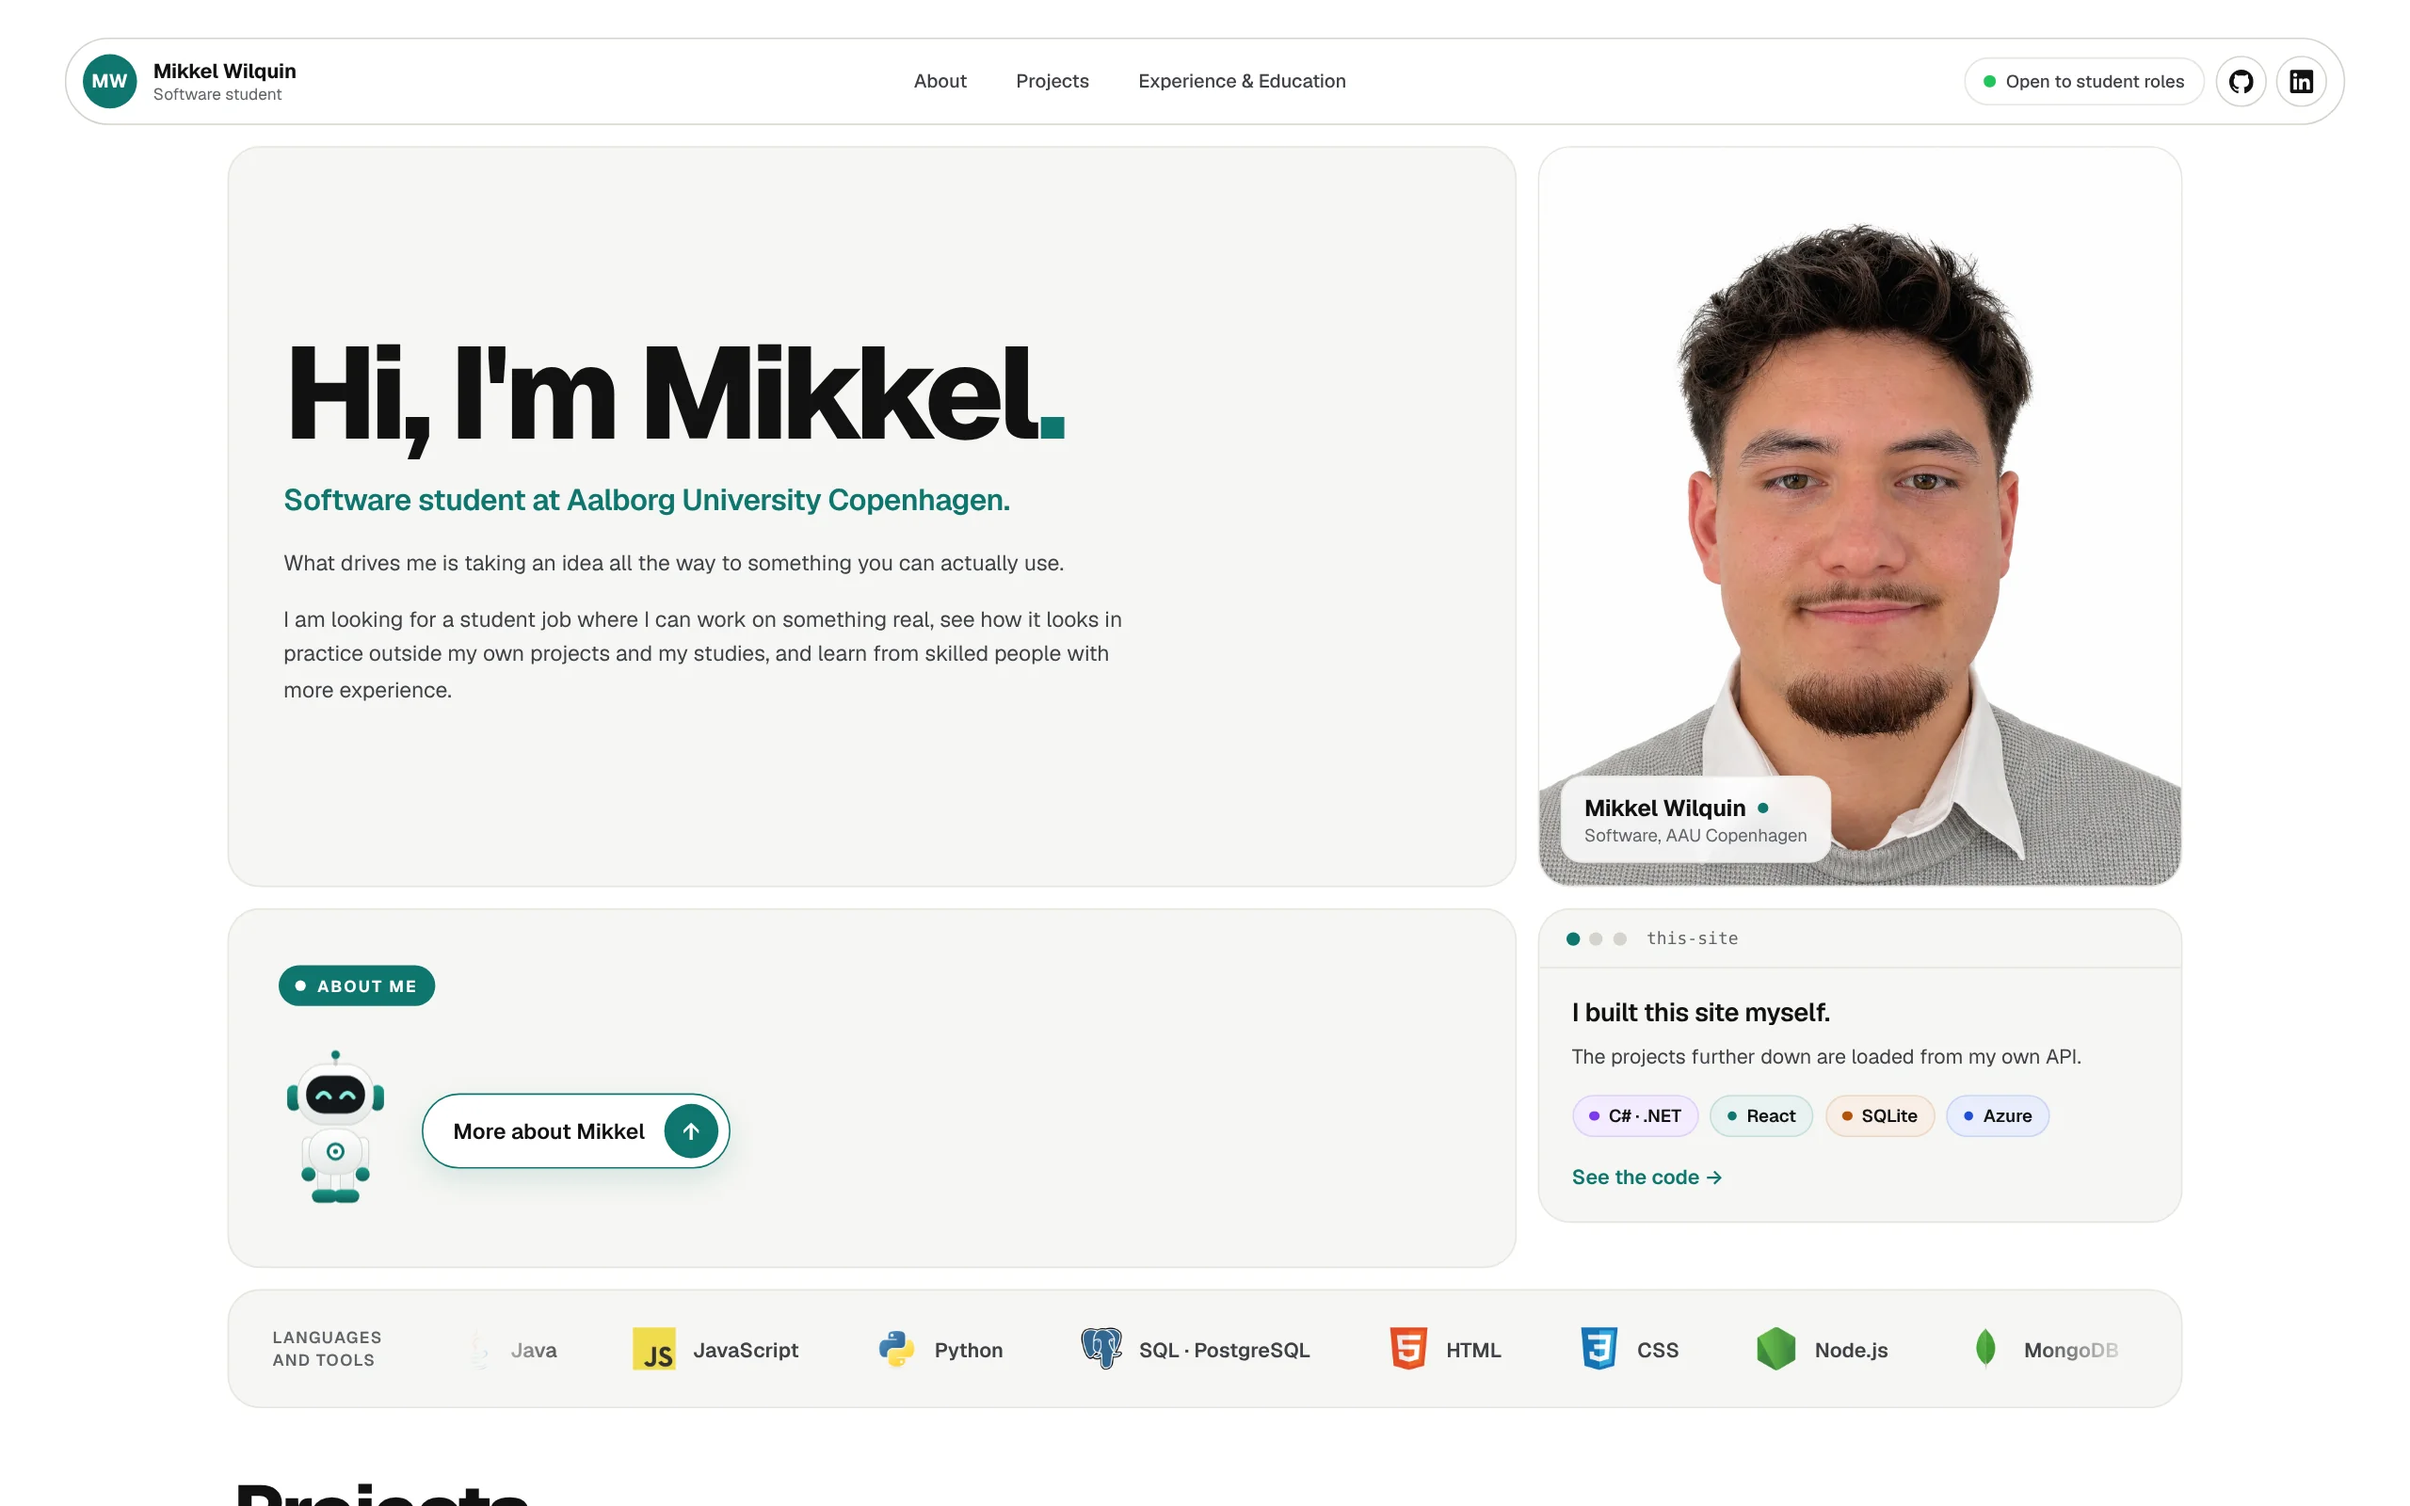
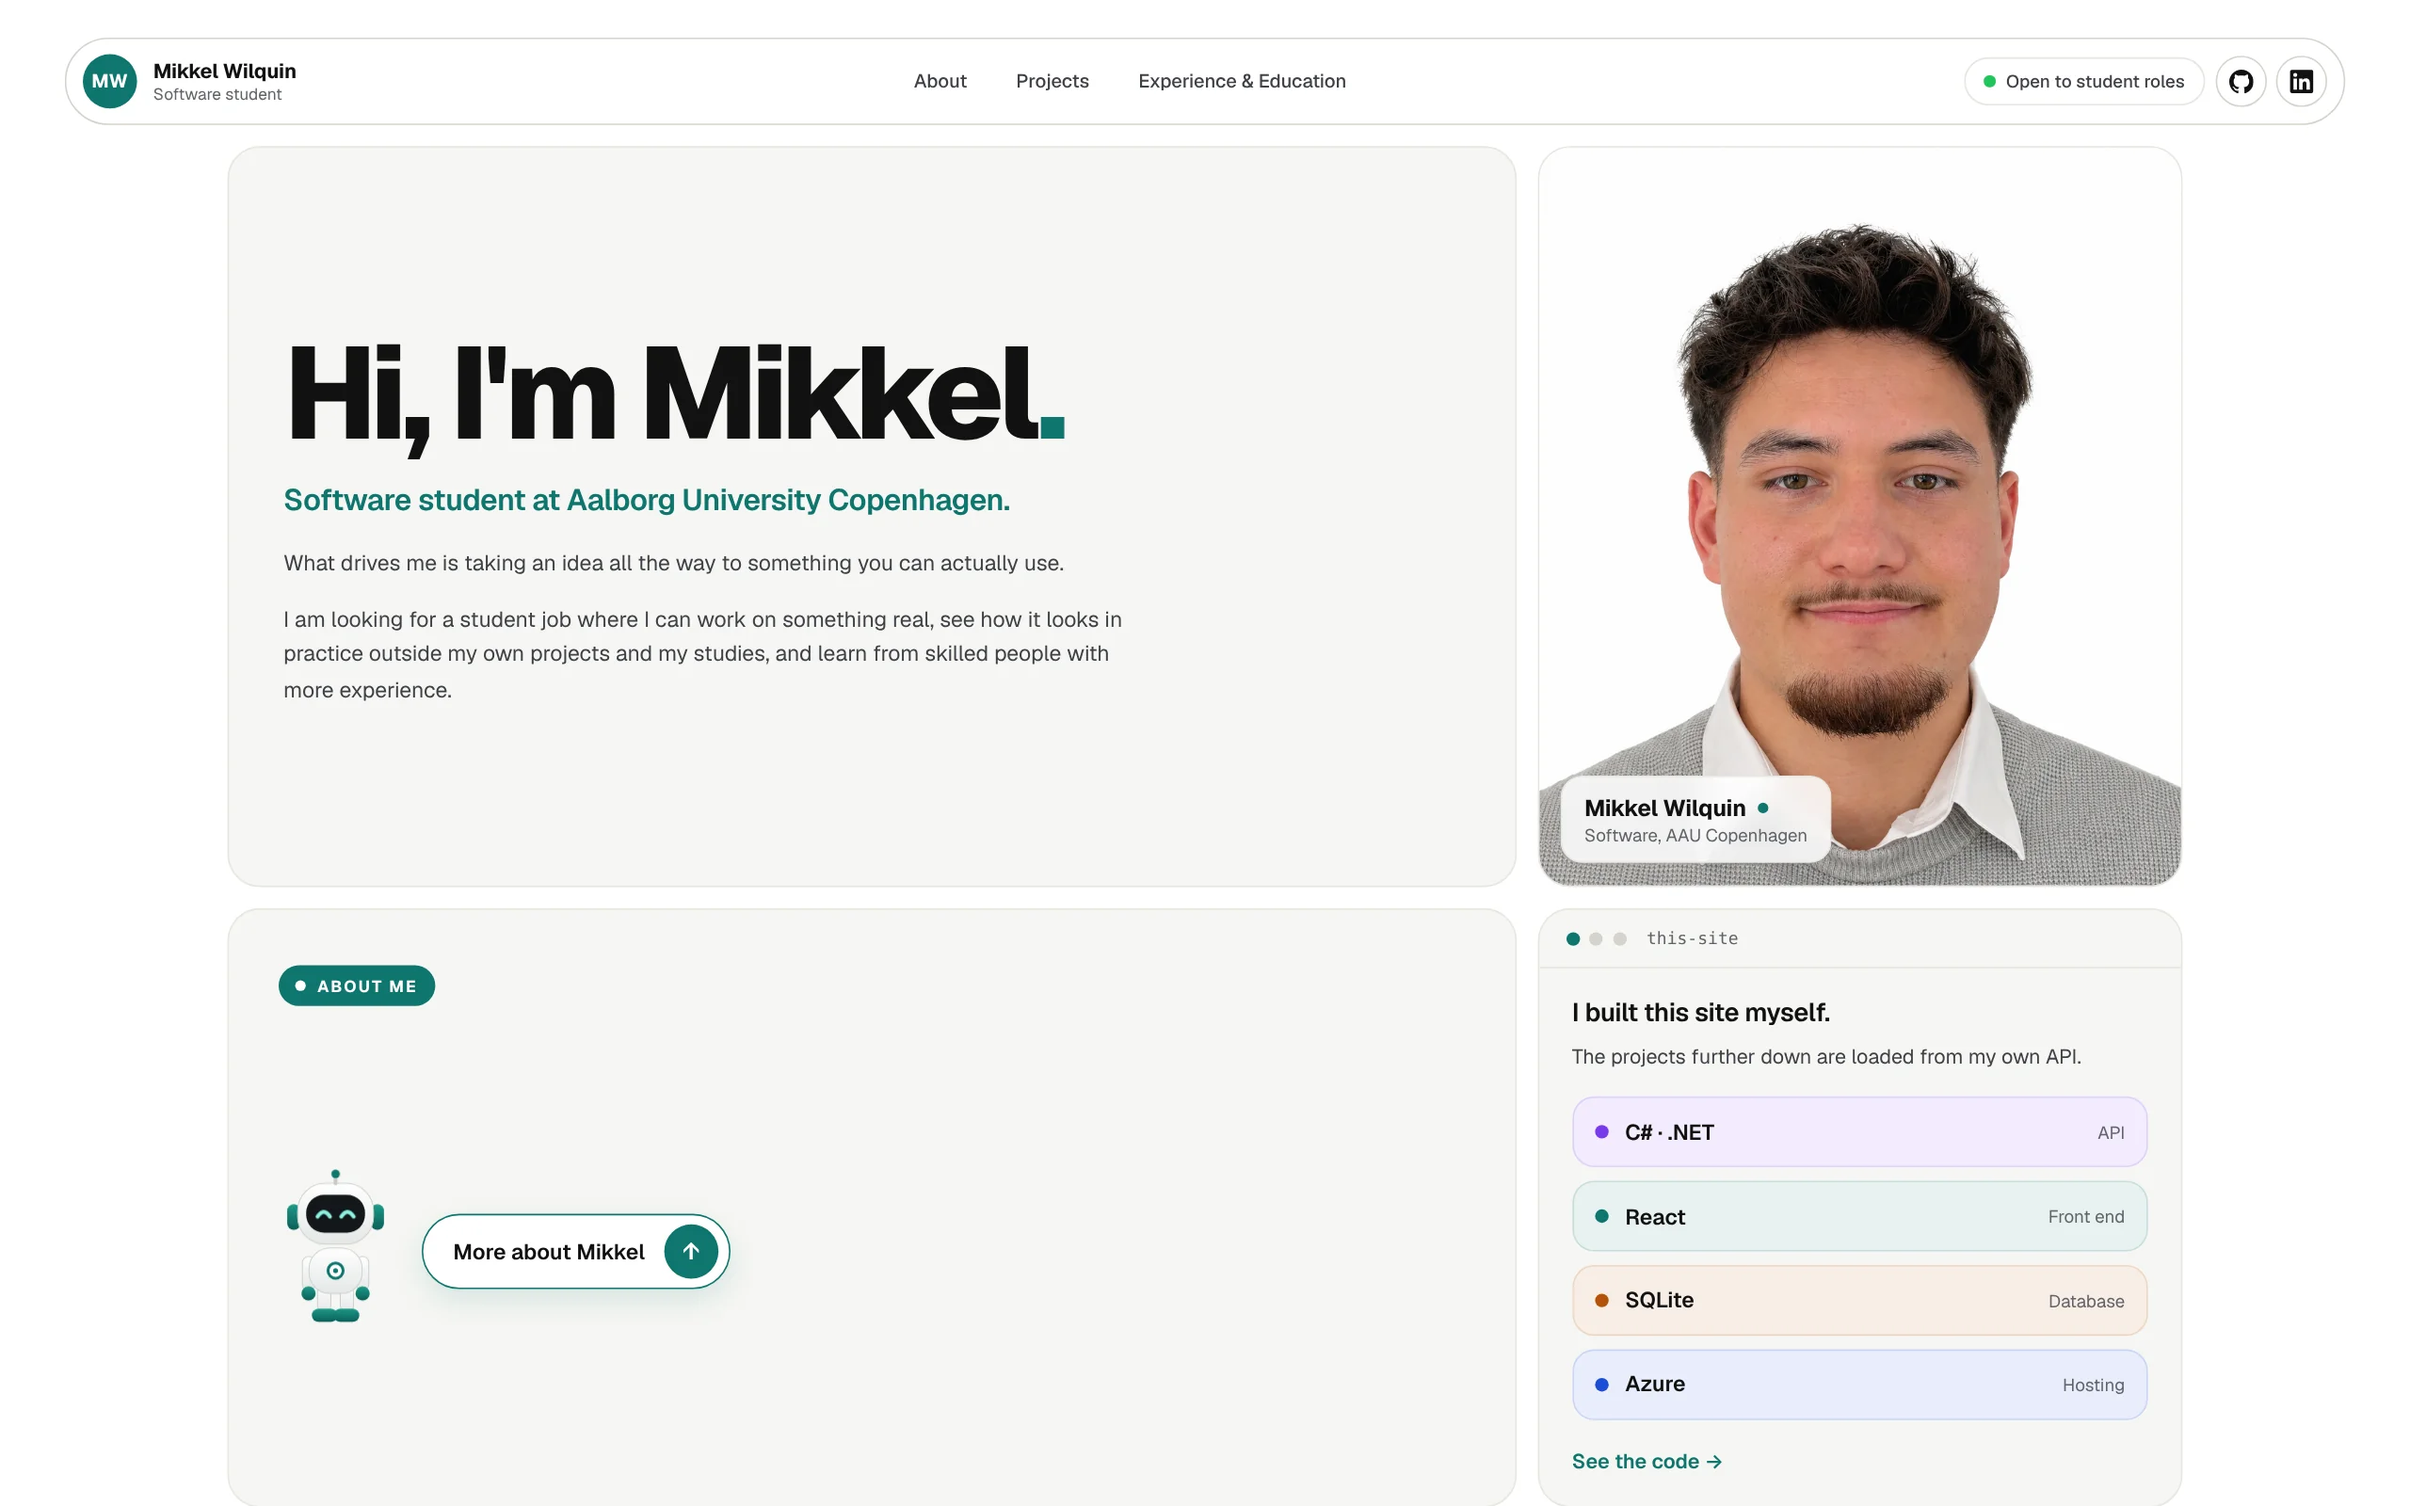
Taller site card with the stack as larger rows

diff --git a/portfolio-web/src/components/BuiltWith.jsx b/portfolio-web/src/components/BuiltWith.jsx
@@ -1,10 +1,10 @@
 import './BuiltWith.css'
 
 const STACK = [
-    { name: 'C# · .NET', color: '#7C3AED' },
-    { name: 'React', color: '#0F766E' },
-    { name: 'SQLite', color: '#B45309' },
-    { name: 'Azure', color: '#1D4ED8' },
+    { name: 'C# · .NET', role: 'API', color: '#7C3AED' },
+    { name: 'React', role: 'Front end', color: '#0F766E' },
+    { name: 'SQLite', role: 'Database', color: '#B45309' },
+    { name: 'Azure', role: 'Hosting', color: '#1D4ED8' },
 ]
 
 function BuiltWith(){
@@ -18,7 +18,7 @@ function BuiltWith(){
             <p className="built-text">The projects further down are loaded from my own API.</p>
             <ul className="built-stack">
                 {STACK.map((item) => (
-                    <li key={item.name} style={{ '--c': item.color }}>{item.name}</li>
+                    <li key={item.name} style={{ '--c': item.color }}><strong>{item.name}</strong><span>{item.role}</span></li>
                 ))}
             </ul>
             <a className="built-link" href="https://github.com/lwmikkel/cv-portfolio" target="_blank" rel="noreferrer">See the code <span aria-hidden="true">→</span></a>

diff --git a/portfolio-web/src/components/BuiltWith.css b/portfolio-web/src/components/BuiltWith.css
@@ -45,37 +45,46 @@
 
 .built-stack {
   display: flex;
-  flex-wrap: wrap;
-  gap: 8px;
-  margin: 16px 24px 0;
+  flex-direction: column;
+  gap: 10px;
+  margin: 18px 24px 0;
   padding: 0;
   list-style: none;
 }
 
 .built-stack li {
-  display: inline-flex;
+  display: flex;
   align-items: center;
-  gap: 7px;
-  height: 32px;
-  padding: 0 12px;
+  gap: 12px;
+  height: 52px;
+  padding: 0 16px;
   border: 1px solid color-mix(in srgb, var(--c) 24%, #FFFFFF);
-  border-radius: 999px;
+  border-radius: 16px;
   background: color-mix(in srgb, var(--c) 10%, #FFFFFF);
-  font-size: 13px;
-  font-weight: 600;
 }
 
 .built-stack li::before {
   content: "";
-  width: 7px;
-  height: 7px;
+  width: 10px;
+  height: 10px;
   border-radius: 50%;
   background: var(--c);
 }
 
+.built-stack strong {
+  font-size: 16px;
+  font-weight: 600;
+}
+
+.built-stack span {
+  margin-left: auto;
+  font-size: 13px;
+  color: var(--text3);
+}
+
 .built-link {
   align-self: flex-start;
-  margin: 18px 24px 0;
+  margin: 20px 24px 0;
   color: var(--accent);
   font-size: 15px;
   font-weight: 600;

diff --git a/portfolio-web/src/components/About.jsx b/portfolio-web/src/components/About.jsx
@@ -49,6 +49,7 @@ function About(){
         const go = async () => {
             if (done) return
             done = true
+            card.classList.add('is-open')
             if (reduce) {
                 ask.style.display = 'none'
                 slot.appendChild(bot)
@@ -132,6 +133,7 @@ function About(){
             ask.style.display = ''
             btn.style.animation = ''
             reveal.classList.remove('open')
+            card.classList.remove('is-open')
         }
     }, [])
 

diff --git a/portfolio-web/src/components/About.css b/portfolio-web/src/components/About.css
@@ -53,6 +53,10 @@
   overflow: hidden;
 }
 
+.about-me:not(.is-open) .about-ask {
+  margin-block: auto;
+}
+
 .about-botwrap {
   flex: none;
   width: 84px;
